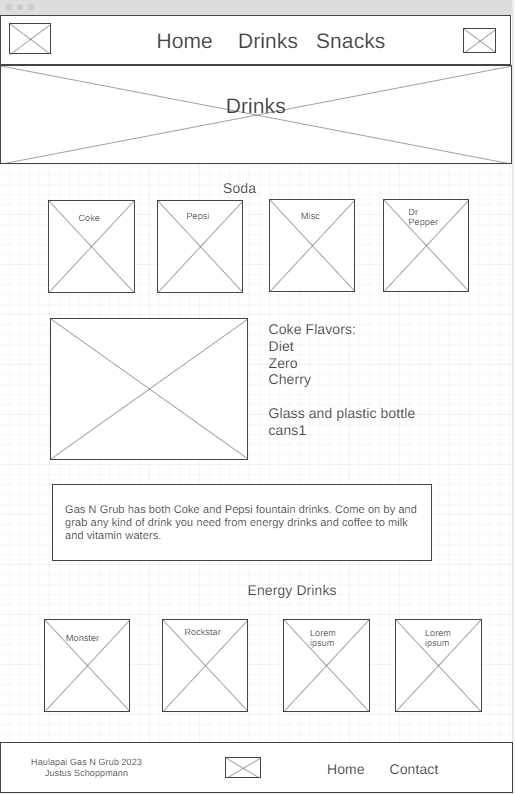
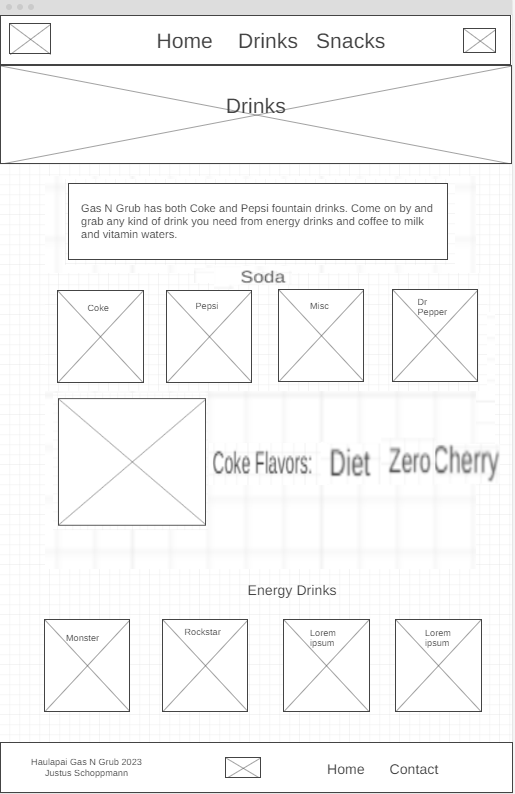
subpage one complete

diff --git a/station/drinks.html b/station/drinks.html
@@ -23,16 +23,17 @@
         </ul>
         <div class="hero-container">
             <img class='hero' src="./images/drinks.webp" alt="">
+            <h3 class="page-title">Drinks</h3>
         </div>
     </header>
     <main>
-        <h2>Car Wash Deals</h2>
+        <!-- <h2>Car Wash Deals</h2>
 <div class="buttoncontainer">
     <button id="myBtn">Learn More</button>
-</div>
+</div> -->
 
 <!-- Modal -->
-<div id="myModal" class="modal">
+<!-- <div id="myModal" class="modal">
 
   <div class="modal-content">
     <span class="close">&times;</span>
@@ -40,134 +41,98 @@
     <p>Deluxe Car Wash: $8.00</p>
     <p>Super Car Wash: $10.00</p>
     <p>Ultimate Car Wash: $12.00</p>
-  </div>
+  </div> -->
 
-</div>
-        <section>
-            From refreshing sodas and bottled water to a wide array of energy drinks, coffee, and tea, we offer beverages for every occasion. Whether you're starting your day and need a caffeine kick or simply want something cold and fizzy, our drinks menu has something for everyone. We also stock a selection of alcoholic beverages for those seeking a little indulgence. Don't forget to check out our fountain drinks for customizable and budget-friendly refreshments. With our drinks options, you can keep hydrated and energized during your journey
+<!-- </div> -->
+        <section class="info">
+            <h2>Info</h2>
+           <p> From refreshing sodas and bottled water to a wide array of energy drinks, coffee, and tea, we offer beverages for every occasion. Whether you're starting your day and need a caffeine kick or simply want something cold and fizzy, our drinks menu has something for everyone. We also stock a selection of alcoholic beverages for those seeking a little indulgence. Don't forget to check out our fountain drinks for customizable and budget-friendly refreshments. With our drinks options, you can keep hydrated and energized during your journey</p>
         </section>
         <section>
             <h2>Soda</h2>
-            <div>
-            <div><img src="./images/coke.jpg" alt="coke"></div>
-            <div><img src="./images/pepsi.jpg" alt=""></div>
-            <div><img src="./images/squirt.jpg" alt=""></div>
-            <div><img src="./images/drp.jpg" alt=""></div>
+            <div class="sodas">
+            <div><img src="./images/coke.jpg" alt="coke" onclick="showSelected('coke')"></div>
+            <div><img src="./images/pepsi.jpg" alt="pepsi" onclick="showSelected('pepsi')"></div>
+            <div><img src="./images/squirt.jpg" alt="squirt" onclick="showSelected('squirt')"></div>
+            <div><img src="./images/drp.jpg" alt="drp" onclick="showSelected('drp')"></div>
             </div>
-            <div class="selected">
+            <div id="cokeSelected" class="selected">
                 <img src="images/coke.jpg" alt="">
                 <ul>
-                    Coke Flavors
-                    <li>
-                        Diet
-                    </li>
-                    <li>
-                        Cherry
-                    </li>
-                    <li>
-                        Zero
-                    </li>
-                    <li>
-                        Vanilla
-                    </li>
+                    <li>Coke Flavors:</li>
+                    <li> Diet</li>
+                    <li> Cherry</li>
+                    <li> Zero</li>
+                    <li> Vanilla </li>
                 </ul>
             </div>
-            <div class="selected">
+            <div id="pepsiSelected" class="selected">
                 <img src="./images/pepsi.jpg" alt="">
-                <ul>
-                    Pepsi Flavors
-                    <li>
-                        Diet
-                    </li>
-                    <li>
-                        Wild Cherry
-                    </li>
-                    <li>
-                        Zero
-                    </li>
+                <ul> 
+                    <li>Pepsi Flavors:</li>
+                    <li> Diet </li>
+                    <li> Wild Cherry </li>
+                    <li> Zero</li>
                 </ul>
             </div>
-            <div class="selected">
+            <div id="squirtSelected" class="selected">
                 <img src="./images/squirt.jpg" alt="">
                 <ul>
-                    Squirt Flavors
-                    <li>
-                        Ruby Red
-                    </li>
+                    <li>Squirt Flavors:</li>
+                    <li>Ruby Red</li>
+                    <li>Zero Sugar</li>
                 </ul>
             </div>
-            <div class="selected">
+            <div id="drpSelected" class="selected">
                 <img src="./images/drp.jpg" alt="">
-                <ul>
-                    Dr. Pepper Flavors
-                    <li>
-                        Cream Soda
-                    </li>
-                    <li>
-                        Diet
-                    </li>
+                <ul> <li>Dr. Pepper Flavors:</li>
+                    <li> Cream Soda</li>
+                    <li>Diet</li>
                 </ul>
             </div>
         </section>
         <section>
             <h2>Energy Drinks</h2>
-            <div>
-            <div><img src="./images/monster.jpg" alt="monster"></div>
-            <div><img src="./images/rockstar.jpg" alt=""></div>
+            <div class="sodas">
+            <div><img src="./images/monster.jpg" alt="monster" onclick="showSelected('monster')"></div>
+            <div><img src="./images/rockstar.jpg" alt="rockstar" onclick="showSelected('rs')"></div>
             </div>
-            <div class="selected">
+            <div id="monsterSelected" class="selected">
                 <img src="images/monster.jpg" alt="">
                 <ul>
-                    Monster Flavors
-                    <li>
-                        Ultra Rosa
-                    </li>
-                    <li>
-                        Ultra Gold
-                    </li>
-                    <li>
-                        Nitro
-                    </li>
-                    <li>
-                        Import
-                    </li>
+                    <li>Monster Flavors:</li>
+                    <li>Ultra Rosa</li>
+                    <li>Ultra Gold</li>
+                    <li>Nitro</li>
+                    <li>Import</li>
                 </ul>
             </div>
-            <div class="selected">
+            <div id="rsSelected" class="selected">
                 <img src="./images/rockstar.jpg" alt="">
                 <ul>
-                    Rockstar Flavors
-                    <li>
-                        Zero Carb
-                    </li>
-                    <li>
-                        Orange Recovery
-                    </li>
-                    <li>
-                        Lemonade Recovery
-                    </li>
+                    <li>Rockstar Flavors</li>
+                    <li> Zero Carb</li>
+                    <li>  Orange Recovery</li>
+                    <li> Lemonade Recovery </li>
                 </ul>
             </div>
-
         </section>
     </main>
     <footer>
-        <div>Haulapai Gas N Grub Justus Schoppmann 2023</div>
         <div>
-            <img src="logo.png" alt="">
+          Haulapai Gas N Grub Justus Schoppmann 2023
         </div>
-        <div>
-            <a href="site-plan.html">Site Plan</a>
-            <div>
-                <a href="index.html">Home</a>
-            </div>
-            <div>
-                <a href="tel:928-718-8879">Contact</a>
-            </div>
+        <div class="foot-logo">
+          <img class="footer-logo" src="logo.png" alt="">
         </div>
-    </footer>
+        <div class="footer-links">
+          <a href="site-plan.html">Site Plan</a>
+          <a href="index.html">Home</a>
+          <a href="tel:928-718-8879">Contact</a>
+        </div>
+      </footer>
 
-    <script>
+    <!-- <script>
         var modal = document.getElementById("myModal");
         var btn = document.getElementById("myBtn");
         var span = document.getElementsByClassName("close")[0];
@@ -182,6 +147,21 @@
             modal.style.display = "none";
           }
         }
+        </script> -->
+        <script>
+            function showSelected(drink) {
+                // Hide all selected divs
+                var selectedDivs = document.querySelectorAll('.selected');
+                selectedDivs.forEach(function(div) {
+                    div.style.display = 'none';
+                });
+    
+                // Show the selected div
+                var selectedDiv = document.getElementById(drink + 'Selected');
+                if (selectedDiv) {
+                    selectedDiv.style.display = 'flex';
+                }
+            }
         </script>
 </body>
 </html>

diff --git a/station/drinks.css b/station/drinks.css
@@ -83,6 +83,7 @@ a:hover {
     object-fit: cover; 
     padding: 0;
     margin: 0;
+    border-bottom: black 2px solid;
 }
   
 .info {
@@ -97,7 +98,7 @@ a:hover {
 }
   
 h2{
-    color: #333; 
+    color: black; 
     text-align: center;
 }
 h3{
@@ -109,33 +110,18 @@ p {
     color: #666; 
     font-family: 'Lora', 'Lucida Sans Unicode', 'Lucida Grande', 'Lucida Sans', Arial, sans-serif;
 }
-
-.gas-container {
-    display: flex;
-    justify-content: space-around; 
-    gap: 20px; 
-    width: 80%;
-    margin: auto;
+.page-title{
+    position: absolute;
+    top: 35%;
+    left: 50%;
+    transform: translate(-50%, -50%);
+    color: black;
+    font-size: 3em;
 }
+
 .phone{
    height: 0px;
 }
-.gas-card {
-    background-color: #fff;
-    box-shadow: 0 0 10px rgba(0, 0, 0, 0.1);
-    padding: 20px;
-    border-radius: 8px;
-    width: 25%;
-    max-height: 100%;
-    text-align: center;
-  }
-  
-.gas-card img {
-    max-width: 100%;
-    max-height: 100%;
-    height: auto; 
-    margin-bottom: 10px;
-  }
 
 .subpages {
     display: flex;
@@ -245,7 +231,7 @@ footer div{
     background-color: white; 
     color: black
   }
-.modal {
+/* .modal {
     text-align: center;
     display: none; 
     position: fixed; 
@@ -280,7 +266,59 @@ footer div{
     color: #000;
     text-decoration: none;
     cursor: pointer;
-  }
+  } */
+
+  .sodas {
+    display: flex;
+    justify-content: space-between;
+    width: 80%;
+    margin: 0 auto;
+    background-color: #fff;
+    border: black 2px solid;
+    border-radius: 10px 10px 0px 0px;
+}
+
+.sodas div {
+    flex: 1;
+    margin-right: 0; 
+    overflow: hidden; 
+    display:flex;
+    align-items: center;
+    justify-content: center;
+}
+
+.sodas div img {
+    width: 100%; 
+    height: 100%; 
+    object-fit: contain; 
+    border-radius: 10px;
+}
+
+.selected{
+    color: white;
+    display: none;
+    width: 80%;
+    margin: 0 auto;
+    max-height: 200px;
+    background-color: white;
+    border: black 2px solid;
+    border-radius: 0px 0px 5px 5px;
+}
+.selected ul li:first-child {
+    color: red;
+}
+@media only screen and (max-width: 1367px){
+    .selected{
+        font-size: small;
+        margin-bottom: 100px;
+      }
+      .selected img{
+        max-width:120px;
+      }
+    .selected ul li{
+        margin: auto 5px;
+      }
+}
 @media only screen and (max-width: 1200px){
     .subpage-card h3 {
         color: red;
